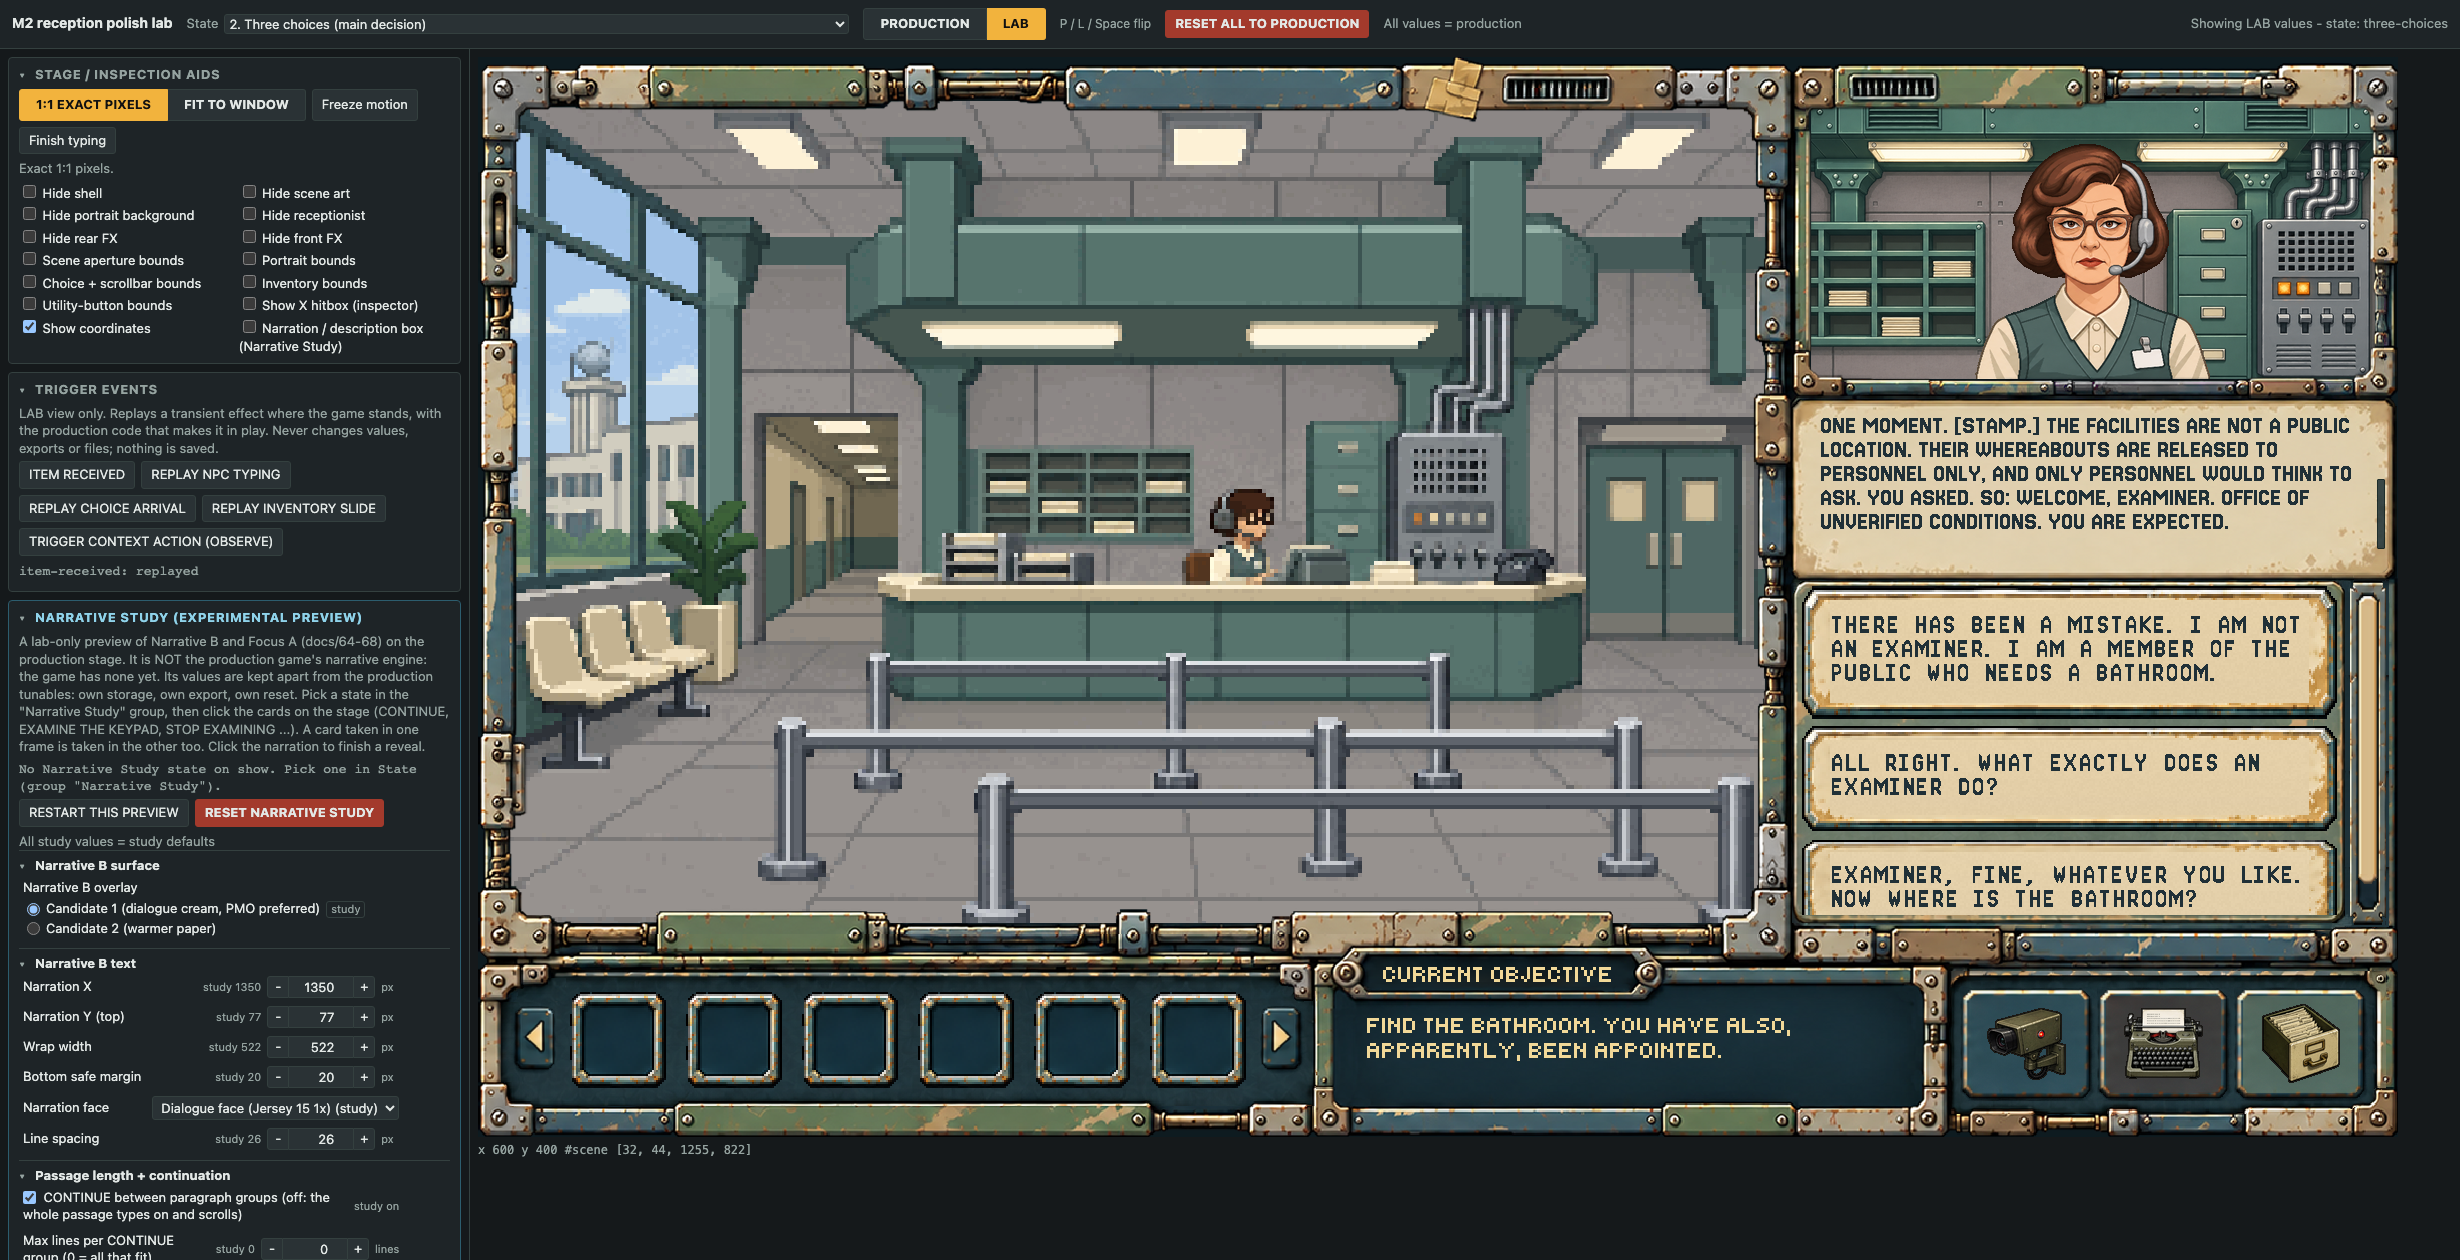
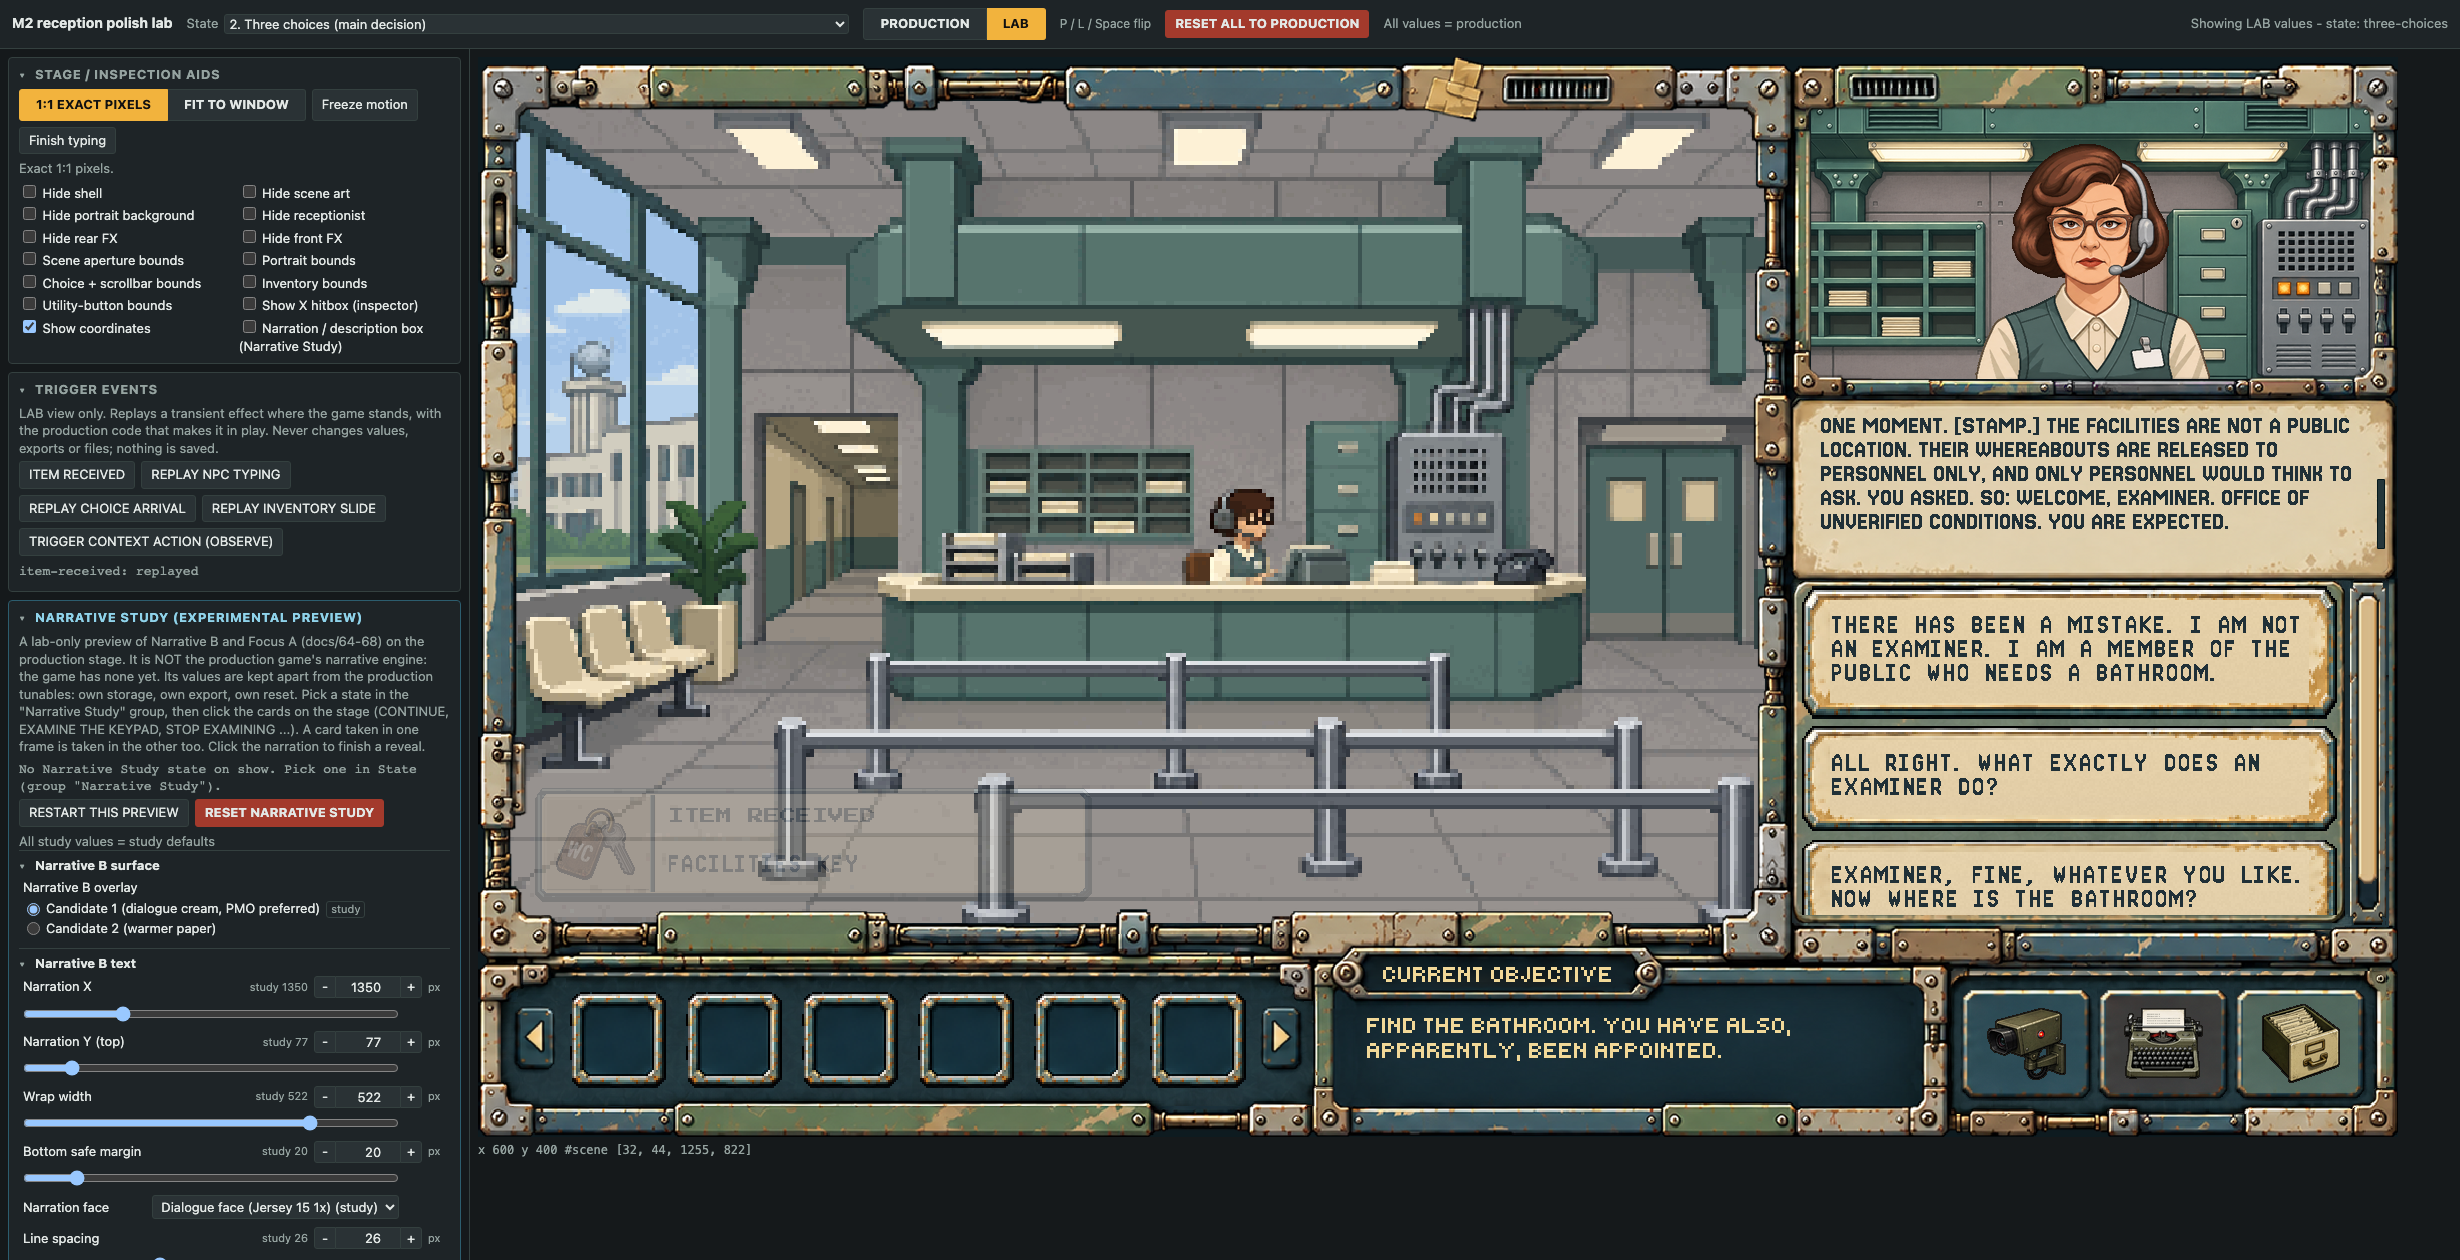
Polish lab: positions and sizes get a slider again, alongside - / box / +
Owner, 2026-11-08: X/Y positions are easier to judge by dragging and watching live than by
+/- 1 at a time. Every pixel and count row now has a slider (live, every step) on its second
line, with - / + (Shift: 10) and the exact box kept on the first. Lab QA 280/280 (new check:
dragging a position slider moves the stage step by step and the box follows).

diff --git a/tools/m2-reception-polish-lab/qa/run_qa.js b/tools/m2-reception-polish-lab/qa/run_qa.js
@@ -228,6 +228,20 @@ async function suite(name, base) {
   });
   c('nudging with + updates the lab stage live, step by step (no debounce, no reload)', drag.tops.join() === '48,49,50,51,52'
     && (await labWin((w) => w.location.href)) === href0 && Number(await labWin((w, d) => d.body.dataset.labApplied)) >= applied0 + 5, { drag, href0 });
+  const drag2 = await lab(async () => {
+    // Dragging a position's slider: input events, one per frame; the NPC follows every step.
+    const w = document.getElementById('frameLab').contentWindow;
+    const sl = document.querySelector('.row[data-key="portrait.npcY"] input[type=range]');
+    const tops = [];
+    for (const v of [9, 10, 11]) {
+      sl.value = String(v);
+      sl.dispatchEvent(new Event('input', { bubbles: true }));
+      await new Promise((r) => requestAnimationFrame(() => requestAnimationFrame(r)));
+      tops.push(w.document.getElementById('portraitNpc').getBoundingClientRect().top);
+    }
+    return { tops, box: document.querySelector('.row[data-key="portrait.npcY"] input[type=number]').value };
+  });
+  c('dragging a position slider updates the lab stage live, step by step, and its number box follows', drag2.tops.join() === '53,54,55' && drag2.box === '11', drag2);
   await lab(() => window.POLISH_LAB.setState('notes'));
   const ov0 = await labWin((w, d) => { const cv = d.getElementById('overlayCanvas'); return [w.CYOA_GAME.ui.overlay, cv.dataset.text, cv.dataset.scroll, d.getElementById('overlayPanel').dataset.art].join('|'); });
   await lab(() => window.POLISH_LAB.setValue('overlay.bodyX', window.POLISH_LAB.production()['overlay.bodyX'] + 20));
@@ -1002,13 +1016,13 @@ async function narrativeStudy({ c, page, lab, labG, labWin, wrap, ready, freezeB
     const r = ctl.rows[k];
     if (!r || r.kind !== kind || r.reset !== 'hidden') return true;
     const n = (ctl.tun.find((t) => t[0] === k) || ctl.ns.find((t) => t[0] === k))[2];
-    if (kind === 'nudge') return !r.nudge || !r.num || r.slider || r.radios || r.select || r.check;
+    if (kind === 'nudge') return !r.nudge || !r.num || !r.slider || r.radios || r.select || r.check;
     if (kind === 'slider') return !r.slider || !r.num || r.nudge || r.radios || r.select || r.check;
     if (kind === 'radio') return r.radios !== n || r.slider || r.nudge || r.num || r.select || r.check;
     if (kind === 'select') return r.select !== n || r.slider || r.nudge || r.num || r.radios || r.check;
     return r.check !== 1 || r.slider || r.nudge || r.num || r.radios || r.select;
   });
-  c('every value has the widget that fits it: pixels and counts - / box / + (no slider), timings and speeds a slider with a box, few named choices radio buttons, many a dropdown, on/off a checkbox; no row shows a reset until changed',
+  c('every value has the widget that fits it: pixels and counts a slider plus - / box / +, timings and speeds a slider with a box, few named choices radio buttons, many a dropdown, on/off a checkbox; no row shows a reset until changed',
     ctlBad.length === 0 && Object.keys(ctl.rows).length === ctl.tun.length + ctl.ns.length && ctl.rows['text.font'].kind === 'select' && ctl.rows['marking.actionCards'].kind === 'check'
     && ctl.rows['marking.ink'].swatches === 3 && ctl.rows['overlay.notesPanel'].refTag === '1' && ctl.rows['marking.style'].refTag === '2', { ctlBad, n: Object.keys(ctl.rows).length });
   const ui = await lab(async () => {

diff --git a/tools/m2-reception-polish-lab/controls.js b/tools/m2-reception-polish-lab/controls.js
@@ -1,7 +1,8 @@
 // The polish lab's value controls, shared by the production tunables (lab.js) and the Narrative
 // Study (narrative-study-panel.js). One widget per kind of value (owner, 2026-11-08: not every value
 // is a slider):
-//   nudge  - a pixel position, size or count: [-] [box] [+], whole steps (Shift: 10 at a time);
+//   nudge  - a pixel position, size or count: a slider to drag and watch live, plus [-] [box] [+]
+//            for exact whole steps (Shift: 10 at a time);
 //   slider - a wide range felt by eye, such as a timing: a slider with an exact box beside it;
 //   radio  - one of a few named choices, all visible at once;
 //   select - one of many named choices, in a dropdown;
@@ -98,7 +99,7 @@
     parts.reset.title = 'Back to the ' + (o.refName === 'prod' ? 'production value' : 'study default');
     parts.reset.addEventListener('click', o.onReset);
 
-    if (kind === 'slider') {
+    if (kind === 'slider' || kind === 'nudge') {
       el('span', 'break', row); // the slider and its reset take the second line
       parts.slider = el('input', 'slider', row);
       parts.slider.type = 'range';

diff --git a/tools/m2-reception-polish-lab/index.html b/tools/m2-reception-polish-lab/index.html
@@ -84,7 +84,7 @@
 
     <section class="panel" data-fold="values">
       <h2 class="fold-head"><button class="fold" type="button">Tunable values</button></h2>
-      <p class="note">Each row shows its production value (prod) and gets a reset once changed; changed rows are highlighted. Positions and sizes: - / + nudge 1 px (Shift: 10), or type a value. Timings: slider, or type exact milliseconds. Named choices: pick one.</p>
+      <p class="note">Each row shows its production value (prod) and gets a reset once changed; changed rows are highlighted. Positions and sizes: drag the slider to watch it move, or - / + for 1 px (Shift: 10), or type a value. Timings: slider, or type exact milliseconds. Named choices: pick one.</p>
       <div id="controls"></div>
     </section>
 

diff --git a/tools/m2-reception-polish-lab/lab.css b/tools/m2-reception-polish-lab/lab.css
@@ -64,9 +64,9 @@ textarea { width: 100%; font: 12px/1.3 ui-monospace, Menlo, monospace; padding: 
 .row .unit { color: var(--muted); font-size: 11px; min-width: 18px; }
 .row .reset { margin-left: auto; }
 .row .break { flex-basis: 100%; height: 0; }
-.ctl-slider .slider { flex: 1 1 200px; margin: 0; order: 9; }
-.ctl-slider .reset { order: 10; }
-.ctl-slider .break { order: 8; }
+.ctl-slider .slider, .ctl-nudge .slider { flex: 1 1 200px; margin: 0; order: 9; }
+.ctl-slider .reset, .ctl-nudge .reset { order: 10; }
+.ctl-slider .break, .ctl-nudge .break { order: 8; }
 .ctl-select .lbl { flex-basis: auto; }
 .row .pick { max-width: 100%; padding: 2px 4px; }
 .row .opts { flex-basis: 100%; display: flex; flex-direction: column; gap: 2px; padding-left: 4px; }

diff --git a/tools/m2-reception-polish-lab/README.md b/tools/m2-reception-polish-lab/README.md
@@ -21,7 +21,7 @@ It needs the server, because it uses frames on the same origin. A window at leas
 1. Pick a **State**: opening, the three-choice decision, long history, item received, the inspector before and after READ, NOTES, FILES, OBSERVE taken, the tooltips, the ending, and the choice-card samples.
 2. Adjust values in **Tunable values**:
    - each row shows its production value;
-   - edit a row with the control that fits the value (owner, 2026-11-08; `controls.js`): positions, sizes and counts with **−/+** (1 px; Shift: 10) or the number box; timings and speeds with a slider and an exact number box; a few named choices with radio buttons (the production or study value is tagged); many named choices (the narration face) in a dropdown; on / off with a checkbox. A row's **reset** appears once it is changed. Every change shows live;
+   - edit a row with the control that fits the value (owner, 2026-11-08; `controls.js`): positions, sizes and counts with a slider to drag and watch live, plus **−/+** (1 px; Shift: 10) and the number box for exact steps; timings and speeds with a slider and an exact number box; a few named choices with radio buttons (the production or study value is tagged); many named choices (the narration face) in a dropdown; on / off with a checkbox. A row's **reset** appears once it is changed. Every change shows live;
    - **NOTES background** (NOTES / FILES section) switches the NOTES panel between v1 and the owner's v2 candidate;
    - **reset** returns one value to production; changed rows are highlighted.
 3. Flip **PRODUCTION / LAB** (keys **P**, **L**, or **Space**) to compare.
@@ -93,7 +93,7 @@ Changes apply live to the LAB frame. The other frame keeps the study defaults.
 | File | Role |
 |---|---|
 | `index.html`, `lab.css`, `lab.js` | the lab page: PRODUCTION / LAB, export / import, persistence |
-| `controls.js` | the value controls shared by both panels: one widget per kind of value (nudge, slider, radio, dropdown, checkbox) |
+| `controls.js` | the value controls shared by both panels: one widget per kind of value (slider with −/+, slider, radio, dropdown, checkbox) |
 | `tunables.js` | the registry of every tunable: key, label, production source path, bounds, read / write |
 | `stage.html` | a stage frame that loads the production game scripts and CSS from `game/` |
 | `lab-apply.js` | in a stage frame, before the stage is built: `?mode=lab` writes the lab values into `G.TUNING` / `G.layout`; `?mode=production` writes nothing |
